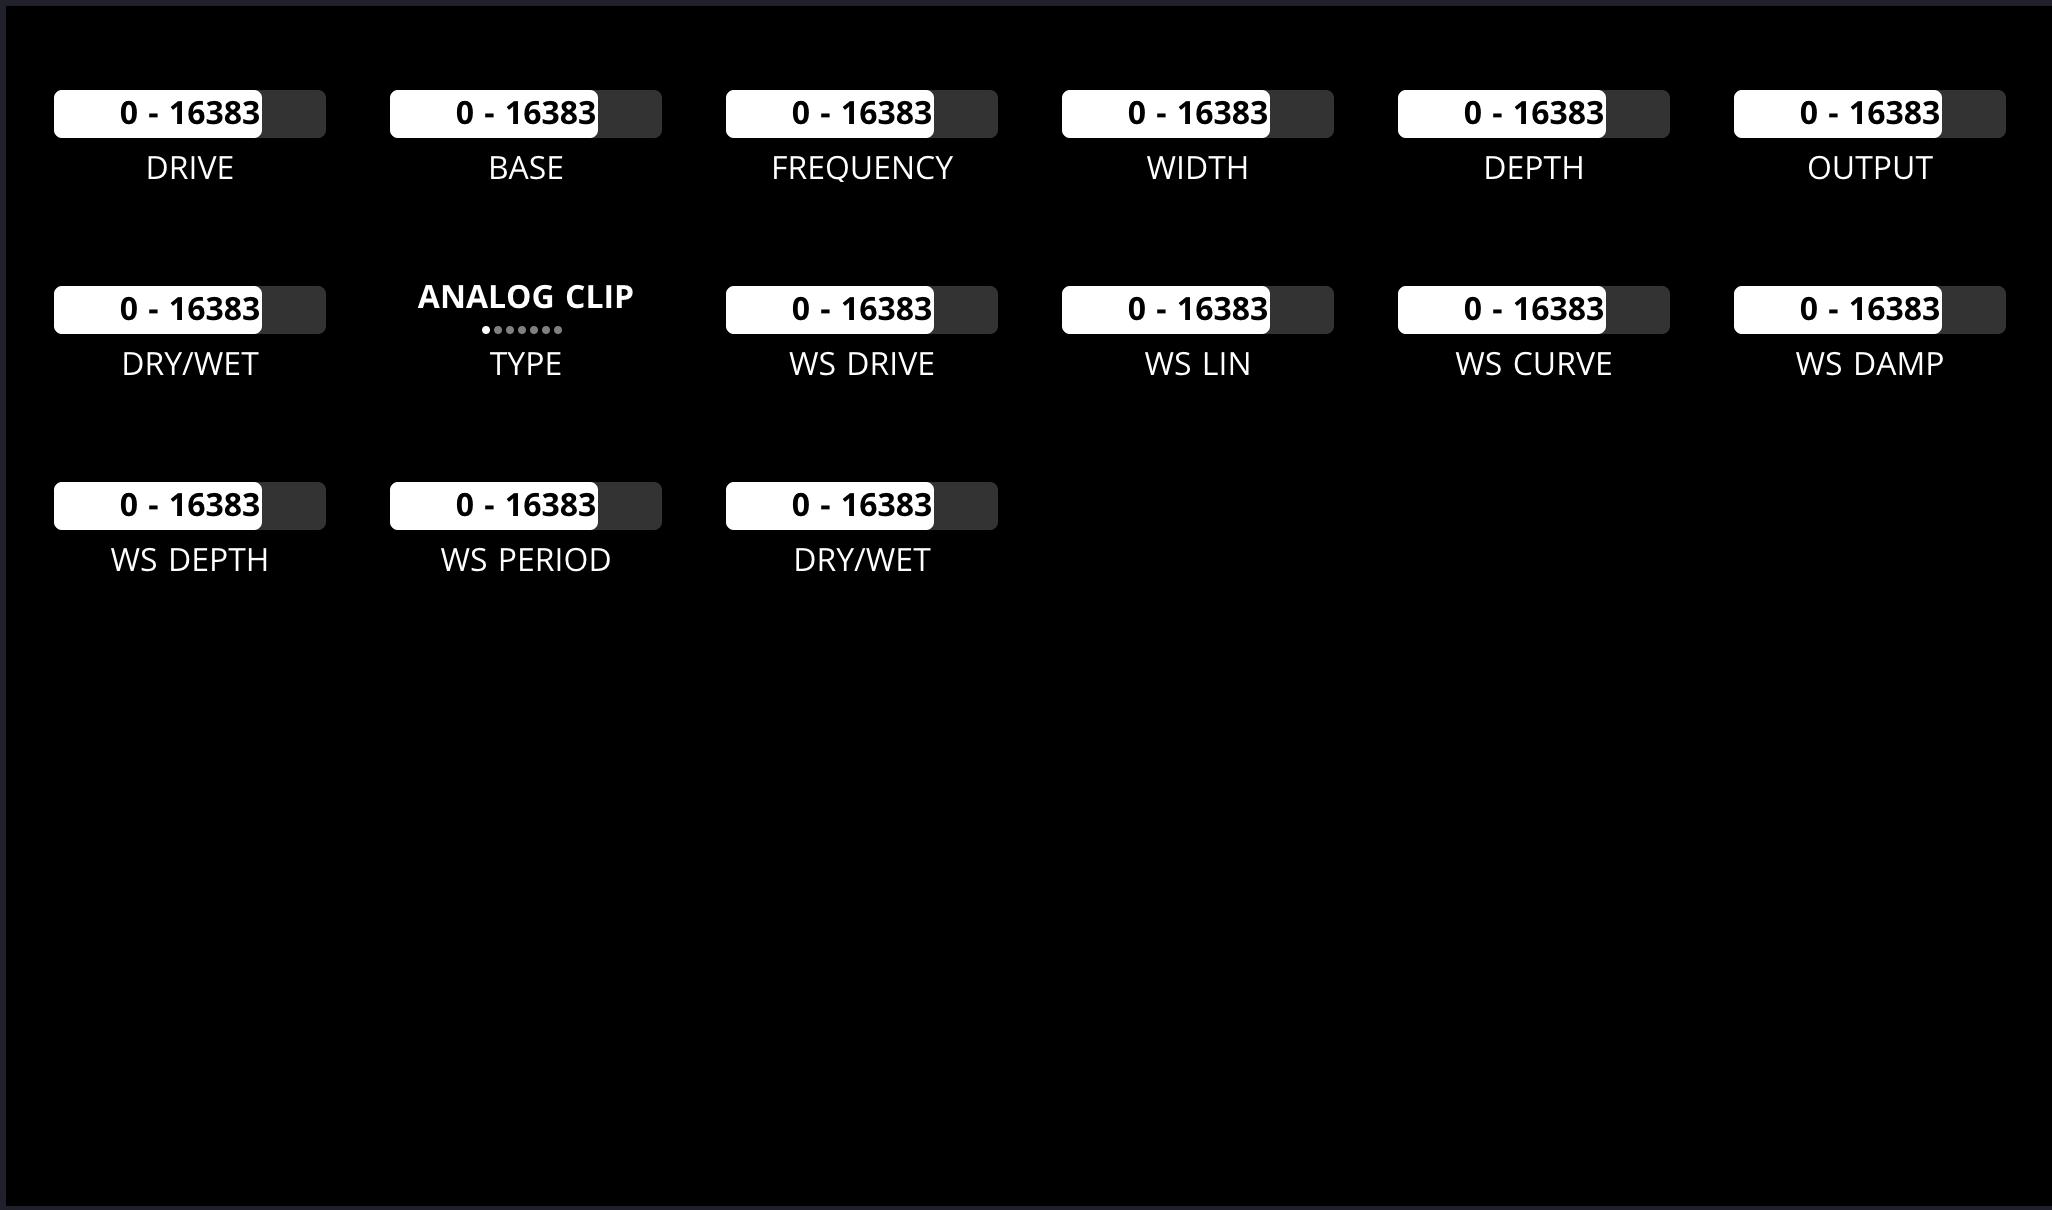
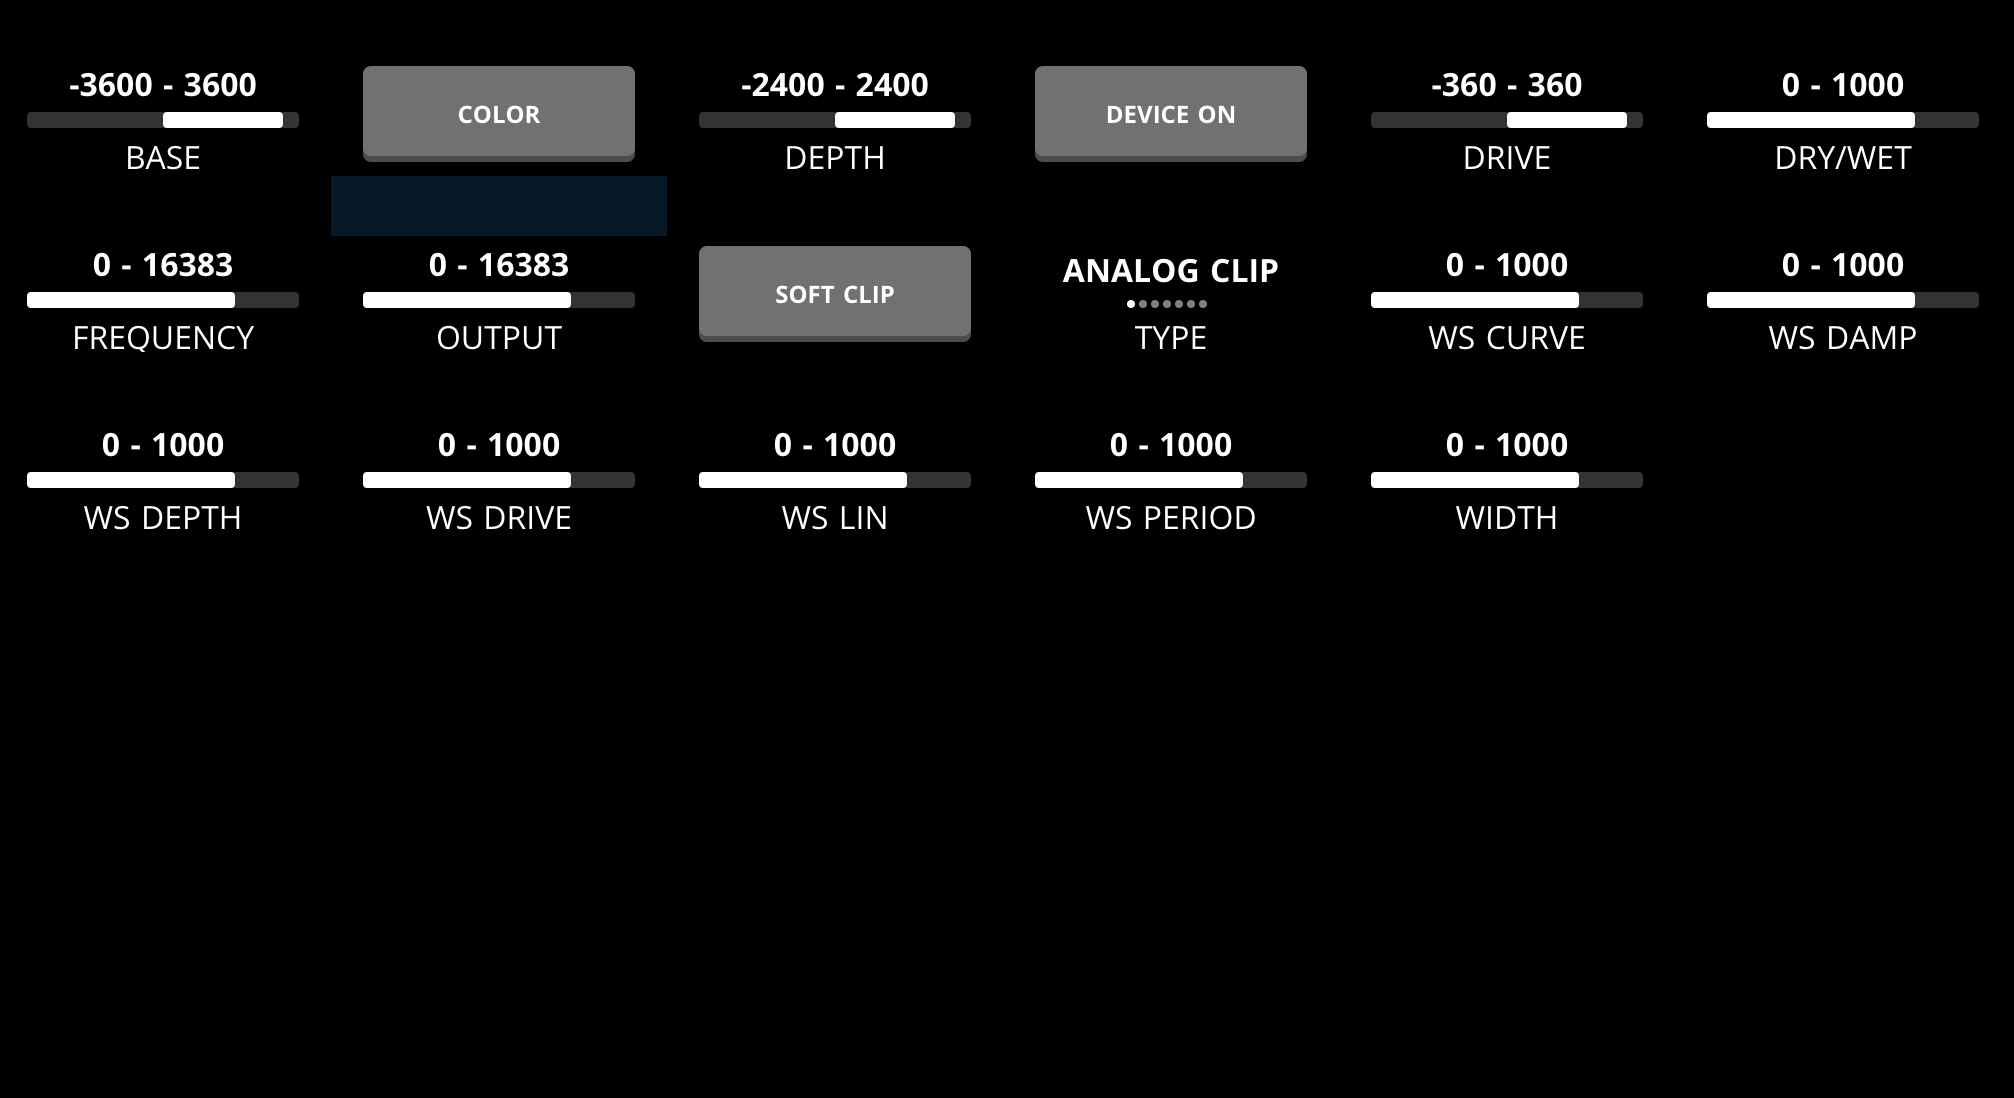
Updated device preset info

diff --git a/versioninfo.py b/versioninfo.py
@@ -1,1 +1,1 @@
-COMMITDATE='Wed Mar 27 22:41:03 CET 2024'
+COMMITDATE='Wed Mar 27 22:48:41 CET 2024'

diff --git a/README.md b/README.md
@@ -67,15 +67,17 @@ Pressing the PRESET REQUEST button on the E1 (right column, top button) switches
 
 ### Creating presets on the fly
 
-If no preloaded or predefined preset exists, the remote script creates a preset on the fly. (The image shows the preset created on the fly for the Saturator effect, in 'devicedict' order, see below.)
+If no preloaded or predefined preset exists, the remote script creates a preset on the fly. (The image shows the preset created on the fly for the Saturator effect, in 'sorted' order, see below.)
 
 ![Preset created on the fly](./images/saturator.png "Preset created on the fly")
 
 When constructing presets:
 - On/off parameters are shown as toggles on the E1.
 - Other 'quantised' parameters are shown as lists on the E1, using the possible values reported by Ableton. (In E1 terms, these are turned into 'overlays' added to the preset.)
-- Non-quantised parameters are shown as faders on the E1. As many faders as possible are assigned to 14bit CCs. (These CCs actually occupy *two* slots in the CC map, see below.) 
-- Integer valued, non-quantised, parameters are shown as integer-valued faders on the E1. Other faders simply show a value within the minimum - maximum CC value range (although for faders with a large range this is currently not the case.).
+- Non-quantised parameters are shown as faders on the E1. As many faders as possible are assigned to 14bit CCs. 
+- Integer valued, non-quantised, parameters are shown as integer-valued faders on the E1. 
+- Float valued parameters are shown as floar-valued faders on the E1. 
+- For certain types of parameters (e.g. percentage, phase shift), the remote script tries to guess the type and adjust the display accordingly.
 
 Note that large devices with many parameters may create a preset with several pages. The generation of presets on the fly can be customised, see the [configuration section](https://github.com/xot/ElectraOne#configuring).
 
@@ -193,6 +195,8 @@ The behaviour of the remote script can be changed by editing ```config.py```. Be
 - ```CONTROL_MODE``` whether the remote script controls both mixer and effect (```CONTROL_EITHER```), the mixer (```CONTROL_MIXER_ONLY```) or the effect only (```CONTROL_EFFECT_ONLY```), or if two E1s are connected each controlling one of them (```CONTROL_BOTH```).
 - ```USE_ABLETON_VALUES```. Whether to use the exact value strings Ableton generates for faders whose value cannot be easily computed by the E1 itself (like non-linear frequency and volume sliders). Default is ```True```.
 - ```SENDMIDI_CMD``` full path to the ```sendmidi```command. If ```None```(the default), fast uploading of presets is not supported.
+- ```USE_PRELOAD_FEATURE```. Whether to use the preloaded presets feature (if supported). If false, the predefined presets in ```Devices.py``` are always used, overriding any (older) preloaded presets on the E1. Default is ```True```.
+
 
 If the sendmidi command cannot be found or fails, the remote script falls back to normal (slow) sending of presets through Live itself.
 
